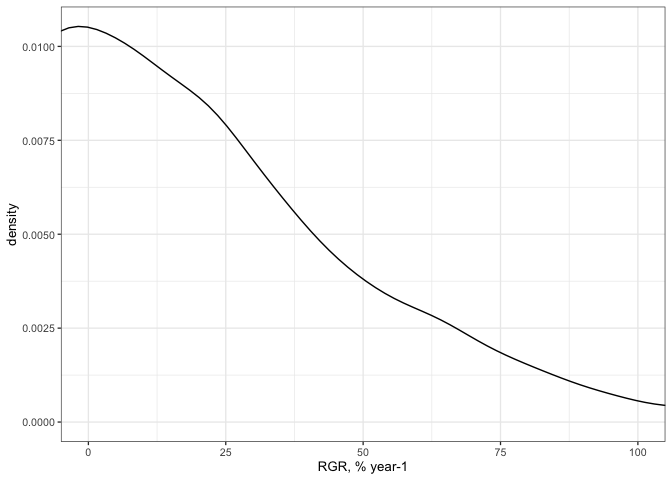
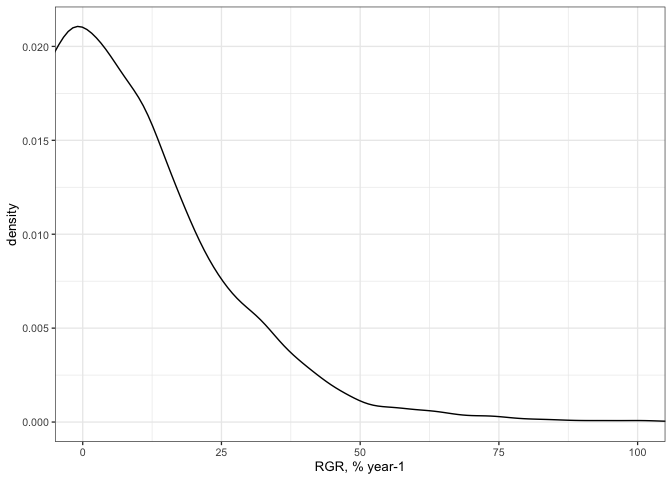
Update note

diff --git a/code/notebooks/2025-06-04_adjust-growth-priors.md b/code/notebooks/2025-06-04_adjust-growth-priors.md
@@ -1,6 +1,6 @@
 # Adjust growth model priors
 eleanorjackson
-2025-06-05
+2025-06-13
 
 - [*k*](#k)
 - [*A*](#a)
@@ -26,7 +26,7 @@ priors2 <- c(
 priors3 <- c(
   prior(lognormal(6, 1), nlpar = "A", lb = 0),
   prior(student_t(5, 0, 0.5), nlpar = "k", lb = 0),
-  prior(student_t(5, 0, 10), nlpar = "delay"))
+  prior(student_t(5, 0, 5), nlpar = "delay"))
 ```
 
 ## *k*
@@ -44,7 +44,7 @@ rstudent_t(n = 1000, df = 5, mu = 0, sigma = 1) %>%
 Convert *k* to RGR
 
 ``` r
-rstudent_t(n = 10000, df = 5, mu = 0, sigma = 1) %>% 
+rstudent_t(n = 10000, df = 5, mu = 0, sigma = 0.5) %>% 
   as.tibble() %>% 
   mutate(rgr = (value / exp(1))*100) %>% 
   ggplot(aes(x = rgr)) +
@@ -98,15 +98,28 @@ rlnorm(n = 100000, meanlog = 6, sdlog = 1) %>%
 
 ## *delay*
 
-I don’t think we need to change the prior for *delay*
+Current prior:
 
 ``` r
 rstudent_t(n = 100000, df = 5, mu = 0, sigma = 10) %>% 
   as.tibble() %>% 
   ggplot(aes(x = value)) +
   geom_density() +
-  coord_cartesian(xlim = c(-20, 20)) +
+  coord_cartesian(xlim = c(-15, 15)) +
   xlab("years")
 ```
 
 ![](figures/2025-06-04_adjust-growth-priors/unnamed-chunk-8-1.png)
+
+New prior:
+
+``` r
+rstudent_t(n = 100000, df = 5, mu = 0, sigma = 5) %>% 
+  as.tibble() %>% 
+  ggplot(aes(x = value)) +
+  geom_density() +
+  coord_cartesian(xlim = c(-15, 15)) +
+  xlab("years")
+```
+
+![](figures/2025-06-04_adjust-growth-priors/unnamed-chunk-9-1.png)
